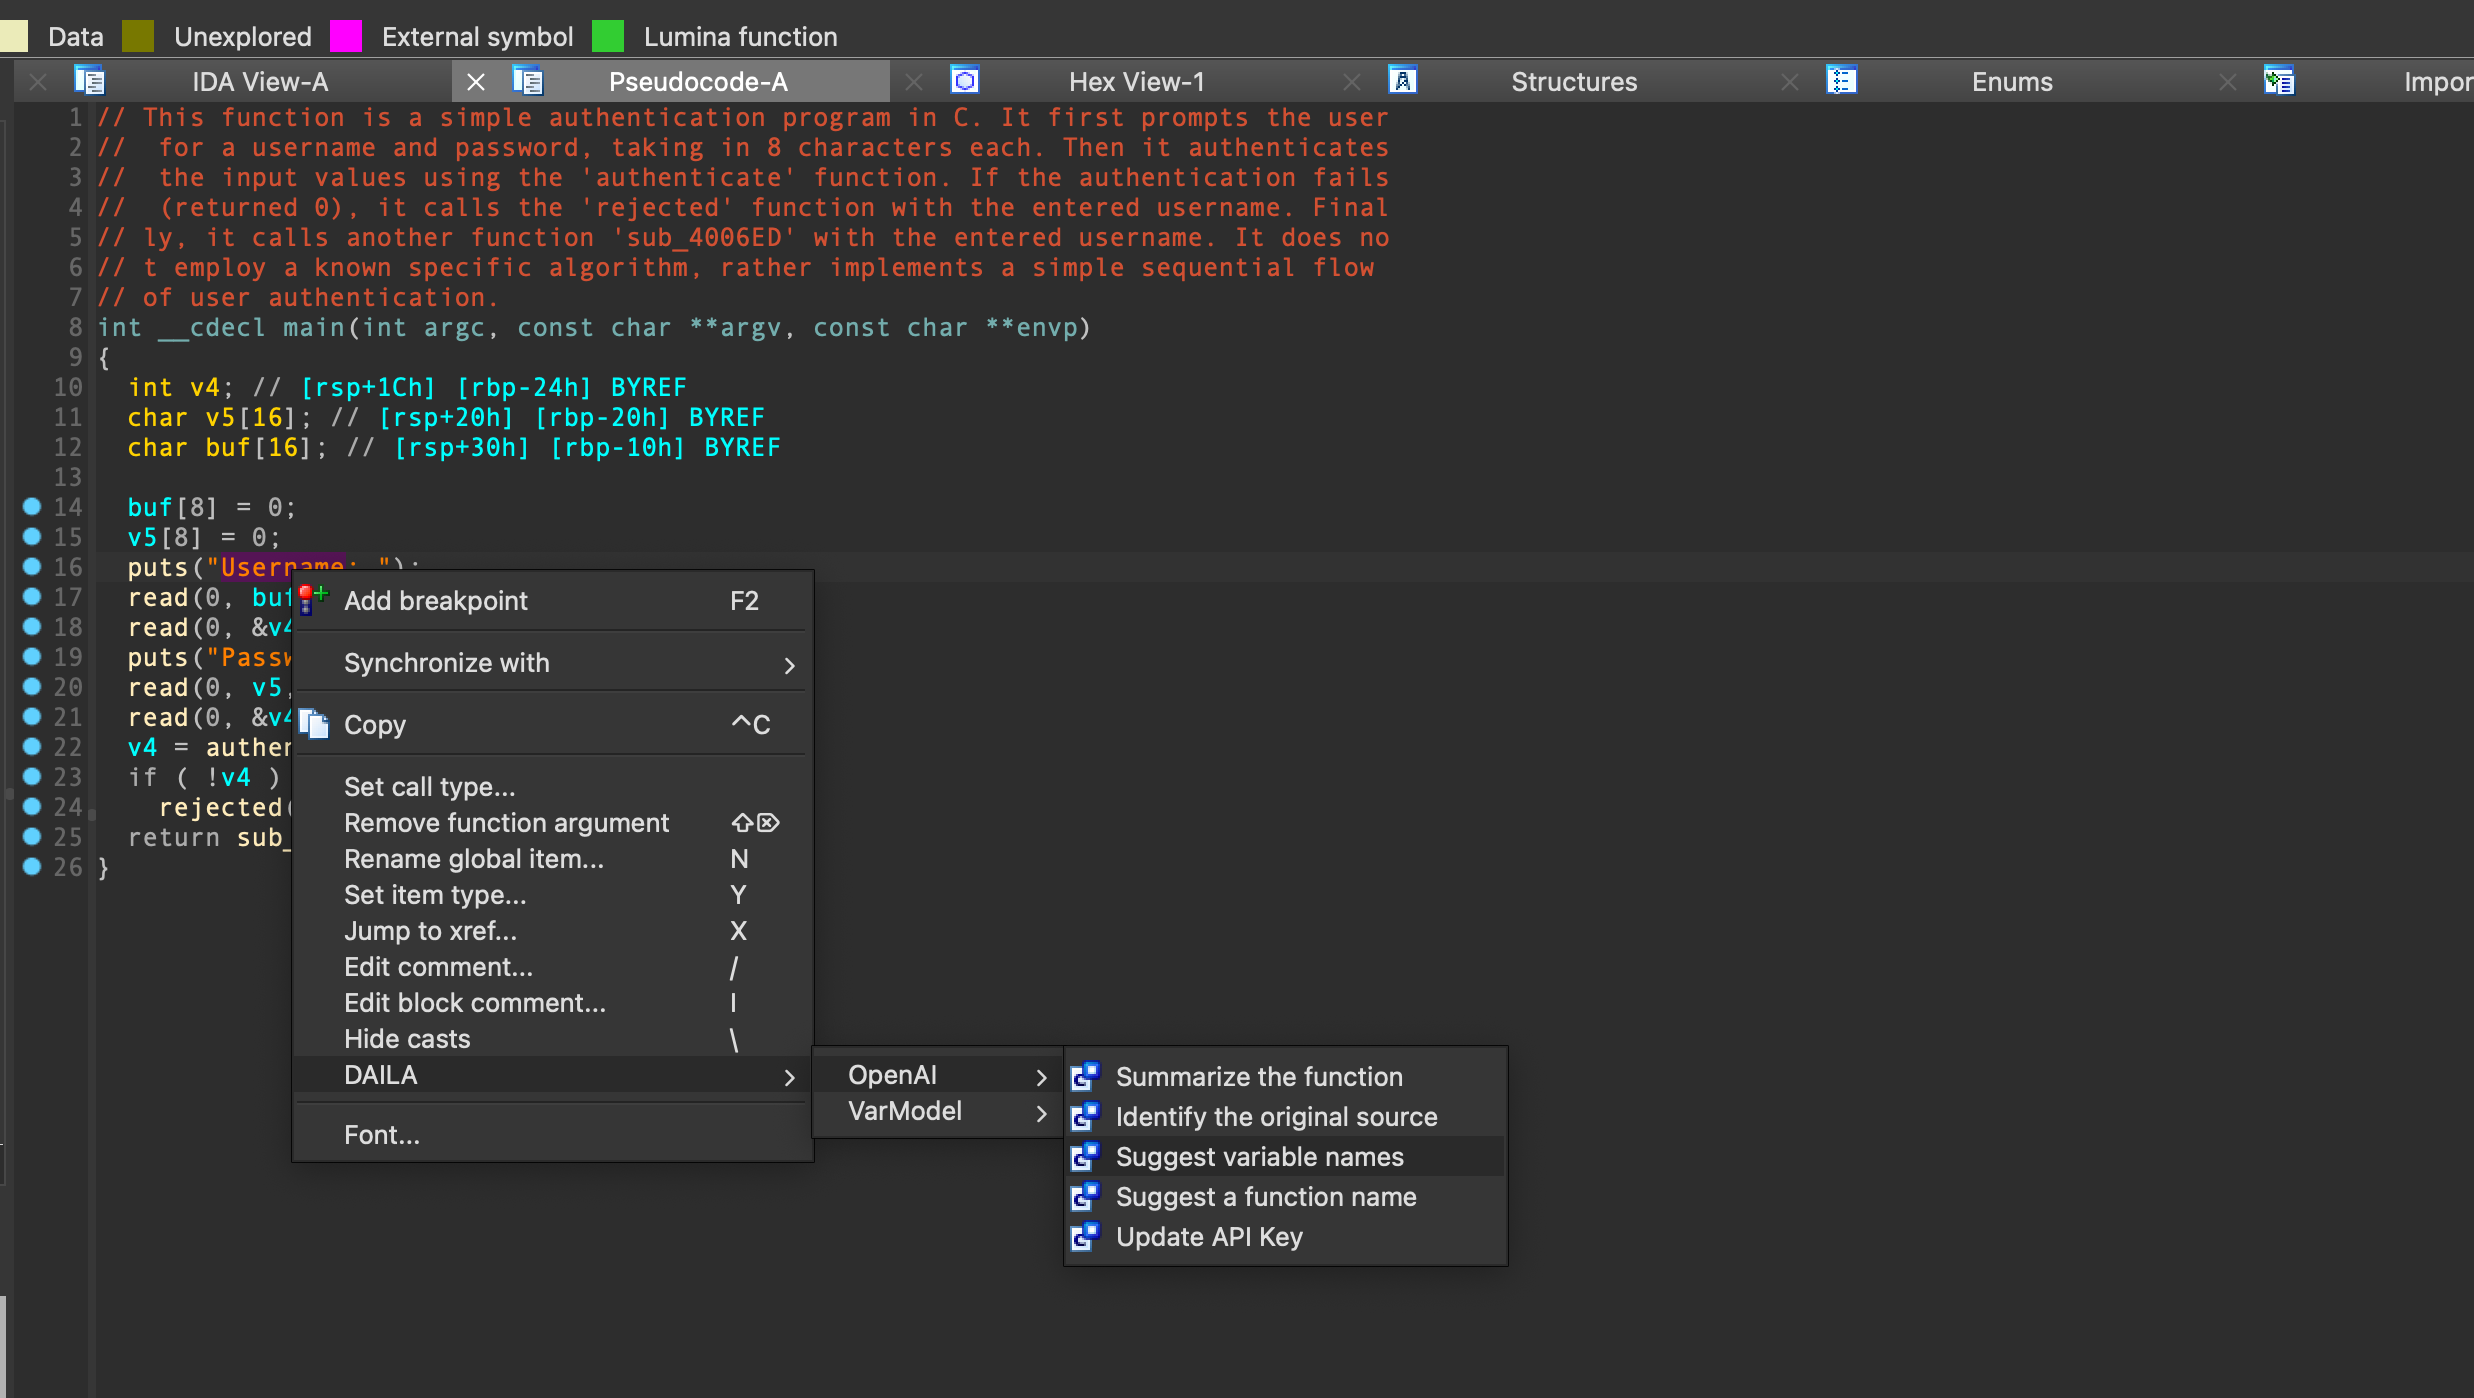
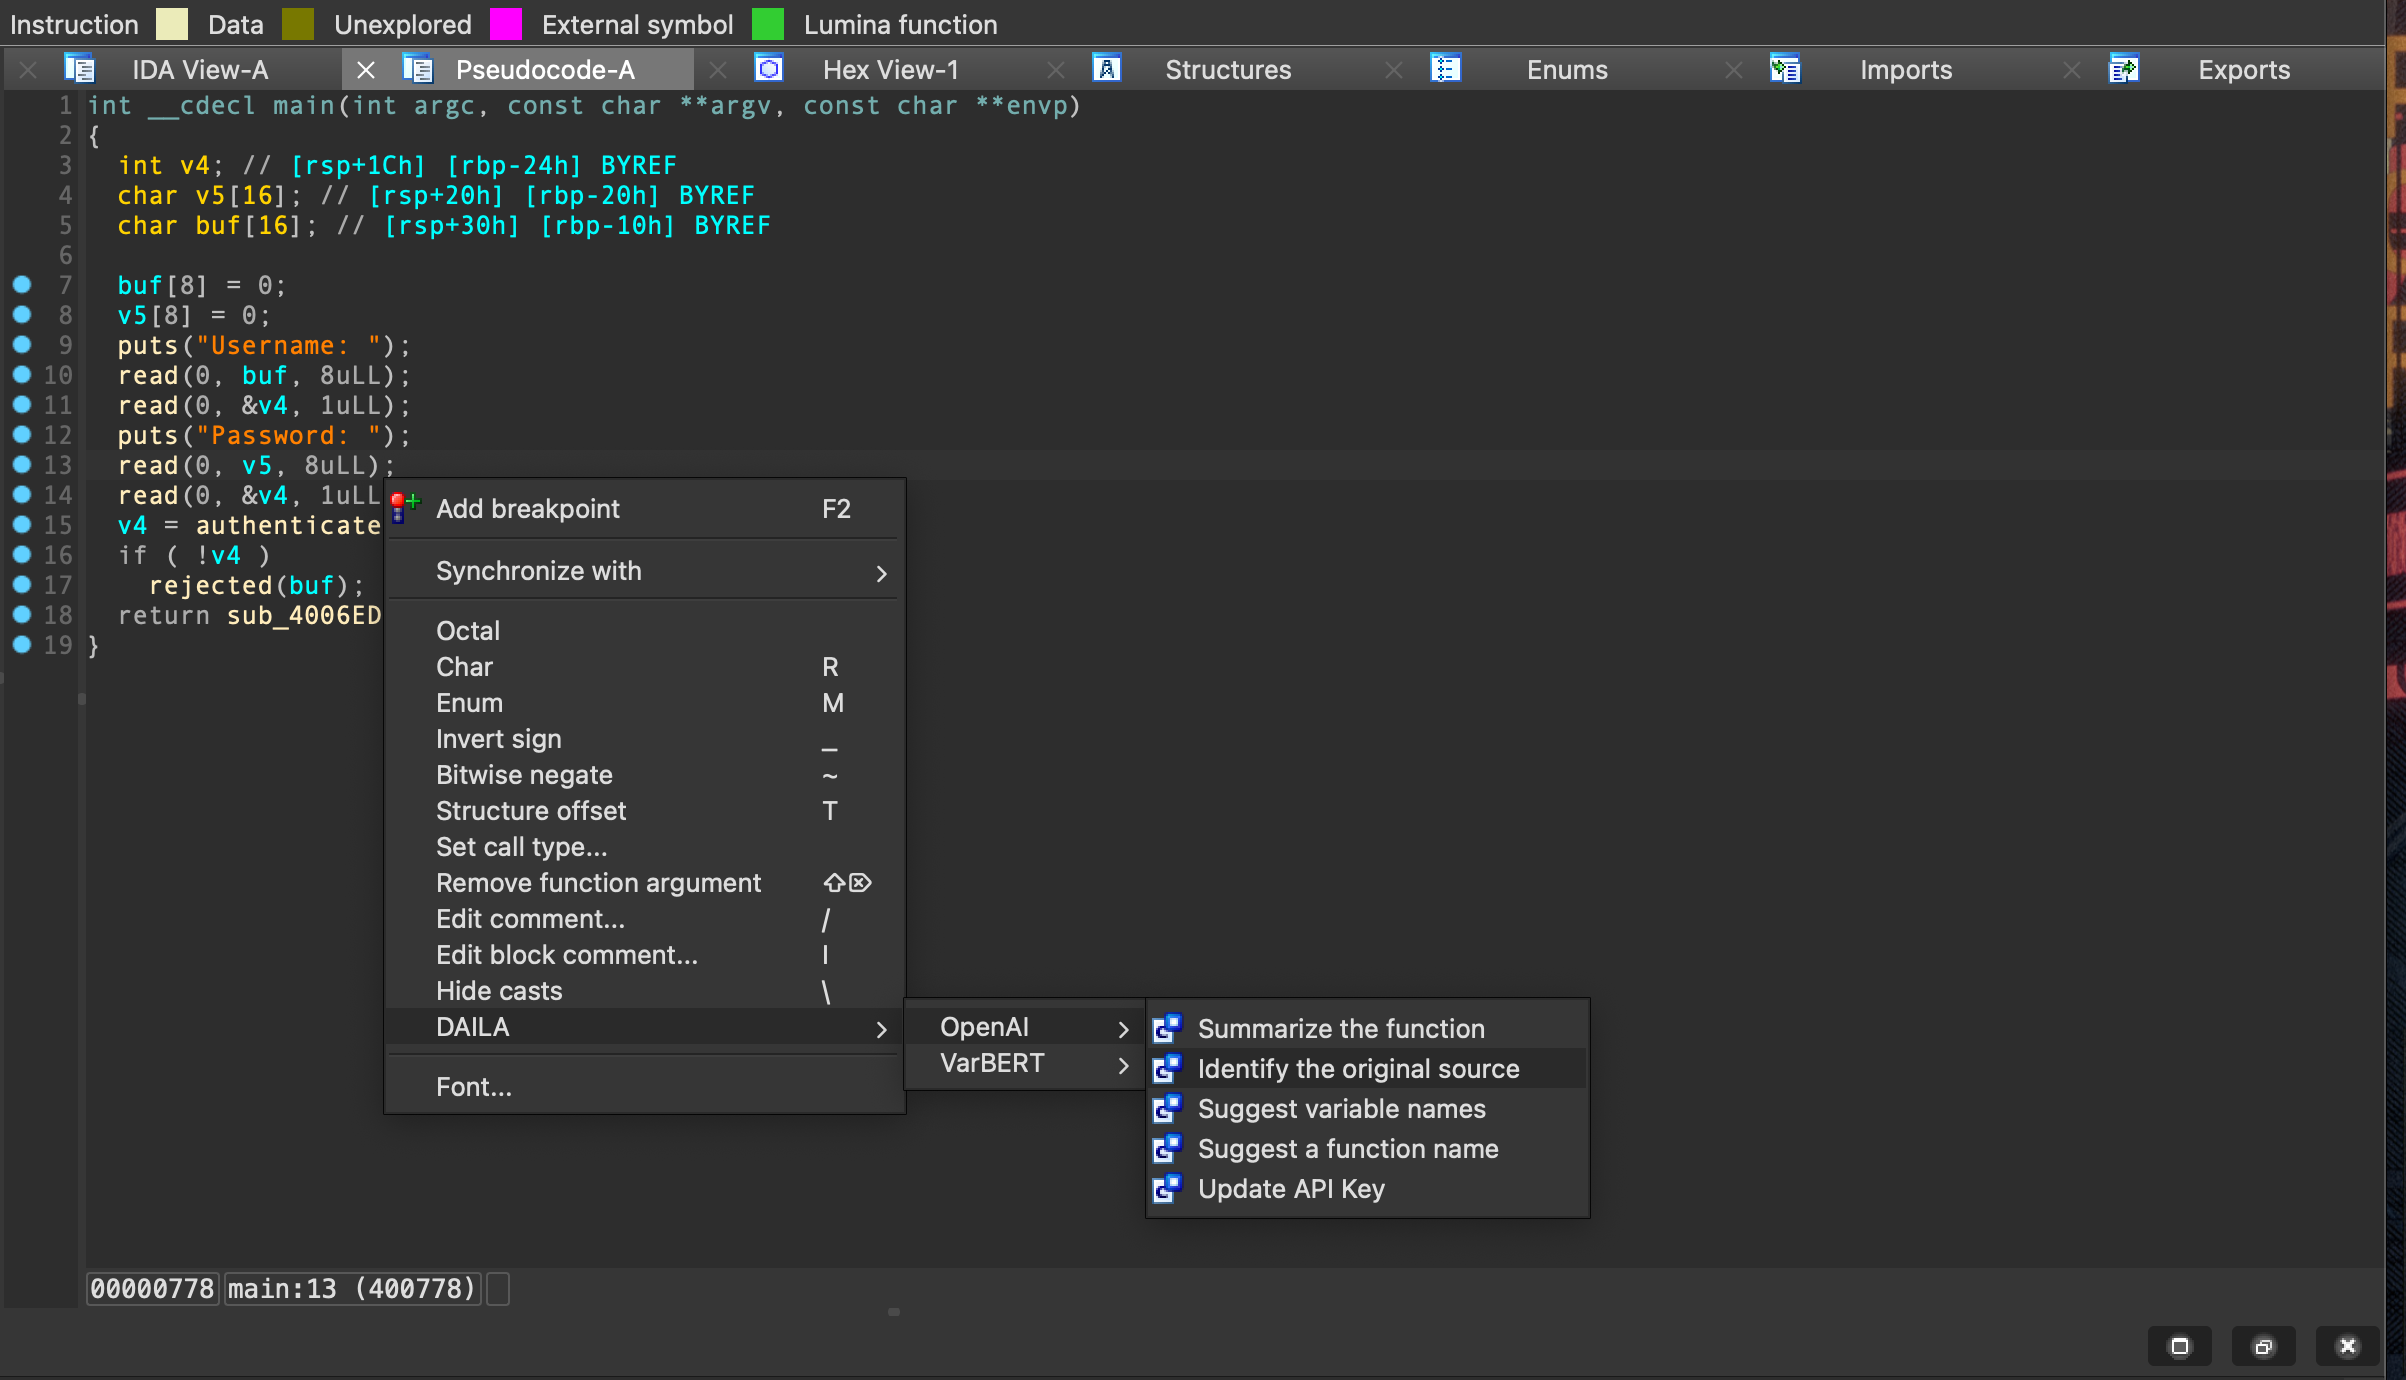
rename varmodel to varbert

diff --git a/dailalib/installer.py b/dailalib/installer.py
@@ -4,8 +4,6 @@ import importlib.resources
 
 from libbs.plugin_installer import PluginInstaller
 
-from dailalib import VARMODEL_AVAILABLE
-
 
 class DAILAInstaller(PluginInstaller):
     def __init__(self):
@@ -68,12 +66,11 @@ class DAILAInstaller(PluginInstaller):
         self.install_local_models()
 
     def install_local_models(self):
-        if VARMODEL_AVAILABLE:
-            self.info("We will now download local models for each decompiler you've installed. Ctrl+C to cancel.")
-            self.install_varmodel_models()
+        self.info("We will now download local models for each decompiler you've installed. Ctrl+C to cancel.")
+        self.install_varmodel_models()
 
     def install_varmodel_models(self):
-        self.info("Installing VarModel models...")
-        from varmodel import install_model as install_varmodel_model
+        self.info("Installing VarBERT models...")
+        from varbert import install_model as install_varbert_model
         for target in self._successful_installs:
-            install_varmodel_model(target, opt_level="O0")
+            install_varbert_model(target, opt_level="O0")

diff --git a/dailalib/__init__.py b/dailalib/__init__.py
@@ -3,13 +3,6 @@ __version__ = "2.1.0"
 from .api import AIAPI, OpenAIAPI
 from libbs.api import DecompilerInterface
 
-VARMODEL_AVAILABLE = False
-try:
-    import varmodel
-    VARMODEL_AVAILABLE = True
-except ImportError:
-    pass
-
 
 def create_plugin(*args, **kwargs):
 
@@ -30,12 +23,10 @@ def create_plugin(*args, **kwargs):
     # VarModel API (local variable renaming)
     #
 
-    var_api = None
-    if VARMODEL_AVAILABLE:
-        from varmodel import VariableRenamingAPI
-        var_api = VariableRenamingAPI(delay_init=True)
+    from varbert import VariableRenamingAPI
+    var_api = VariableRenamingAPI(delay_init=True)
     # add single interface, which is to rename variables
-    gui_ctx_menu_actions["DAILA/VarModel/varmodel_rename_vars"] = ("Suggest new variable names", var_api.query_model)
+    gui_ctx_menu_actions["DAILA/VarBERT/varbert_rename_vars"] = ("Suggest new variable names", var_api.query_model)
 
     #
     # Decompiler Plugin Registration

diff --git a/README.md b/README.md
@@ -1,12 +1,15 @@
 # DAILA 
 The Decompiler Artificial Intelligence Language Assistant (DAILA) is a unified interface for AI systems to be used in decompilers.
 Using DAILA, you can utilize various AI systems, like local and remote LLMs, all in the same scripting and GUI interfaces.
+Power up your decompilation experience with AI!
 
 ![](./assets/ida_daila.png)
 
-DAILA's main purpose is to provide a unified interface for AI systems to be used in decompilers.
-To accomplish this, DAILA provides a lifted interface, relying on the BinSync library [LibBS](https://github.com/binsync/libbs) to abstract away the decompiler.
+DAILA provides a lifted interface, relying on the BinSync library [LibBS](https://github.com/binsync/libbs) to abstract away the decompiler.
 **All decompilers supported in LibBS are supported in DAILA, which currently includes IDA, Ghidra, Binja, and angr-management.**
+Currently, there are two AI systems supported in DAILA: [OpenAI](https://openai.com/) and [VarBERT](https://github.com/binsync/varbert_api), 
+the latter of which is a local model for renaming variables in decompilation published in S&P 2024. 
+
 
 ## Installation
 Install our library backend through pip and our decompiler plugin through our installer:
@@ -14,7 +17,9 @@ Install our library backend through pip and our decompiler plugin through our in
 pip3 install dailalib && daila --install 
 ```
 
-### Ghidra Extras
+This will also download the VarBERT models for you through the [VarBERT API](https://github.com/binsync/varbert_api).
+
+### Ghidra Extra Steps
 You need to do a few extra steps to get Ghidra working.
 Next, enable the DAILA plugin:
 1. Start Ghidra and open a binary
@@ -58,7 +63,7 @@ for function in deci.functions:
 
 
 ## Supported AI Backends
-### OpenAI
+### OpenAI (ChatGPT)
 DAILA supports the OpenAI API. To use the OpenAI API, you must have an OpenAI API key.
 If your decompiler does not have access to the `OPENAI_API_KEY` environment variable, then you must use the decompiler option from
 DAILA to set the API key.
@@ -68,6 +73,13 @@ Currently, DAILA supports the following prompts:
 - Rename variables
 - Rename function
 - Identify the source of a function
+
+### VarBERT
+VarBERT is a local BERT model from the S&P 2024 paper [""Len or index or count, anything but v1": Predicting Variable Names in Decompilation Output with Transfer Learning"]().
+VarBERT is for renaming variables (both stack, register, and arguments) in decompilation.
+To understand how to use VarBERT as a library, please see the [VarBERT API](https://github.com/binsync/varbert_api) documentation.
+Using it in DAILA is a simple as using the GUI context-menu when clicking on a function. 
+
 
 ## Supported Decompilers
 - IDA
